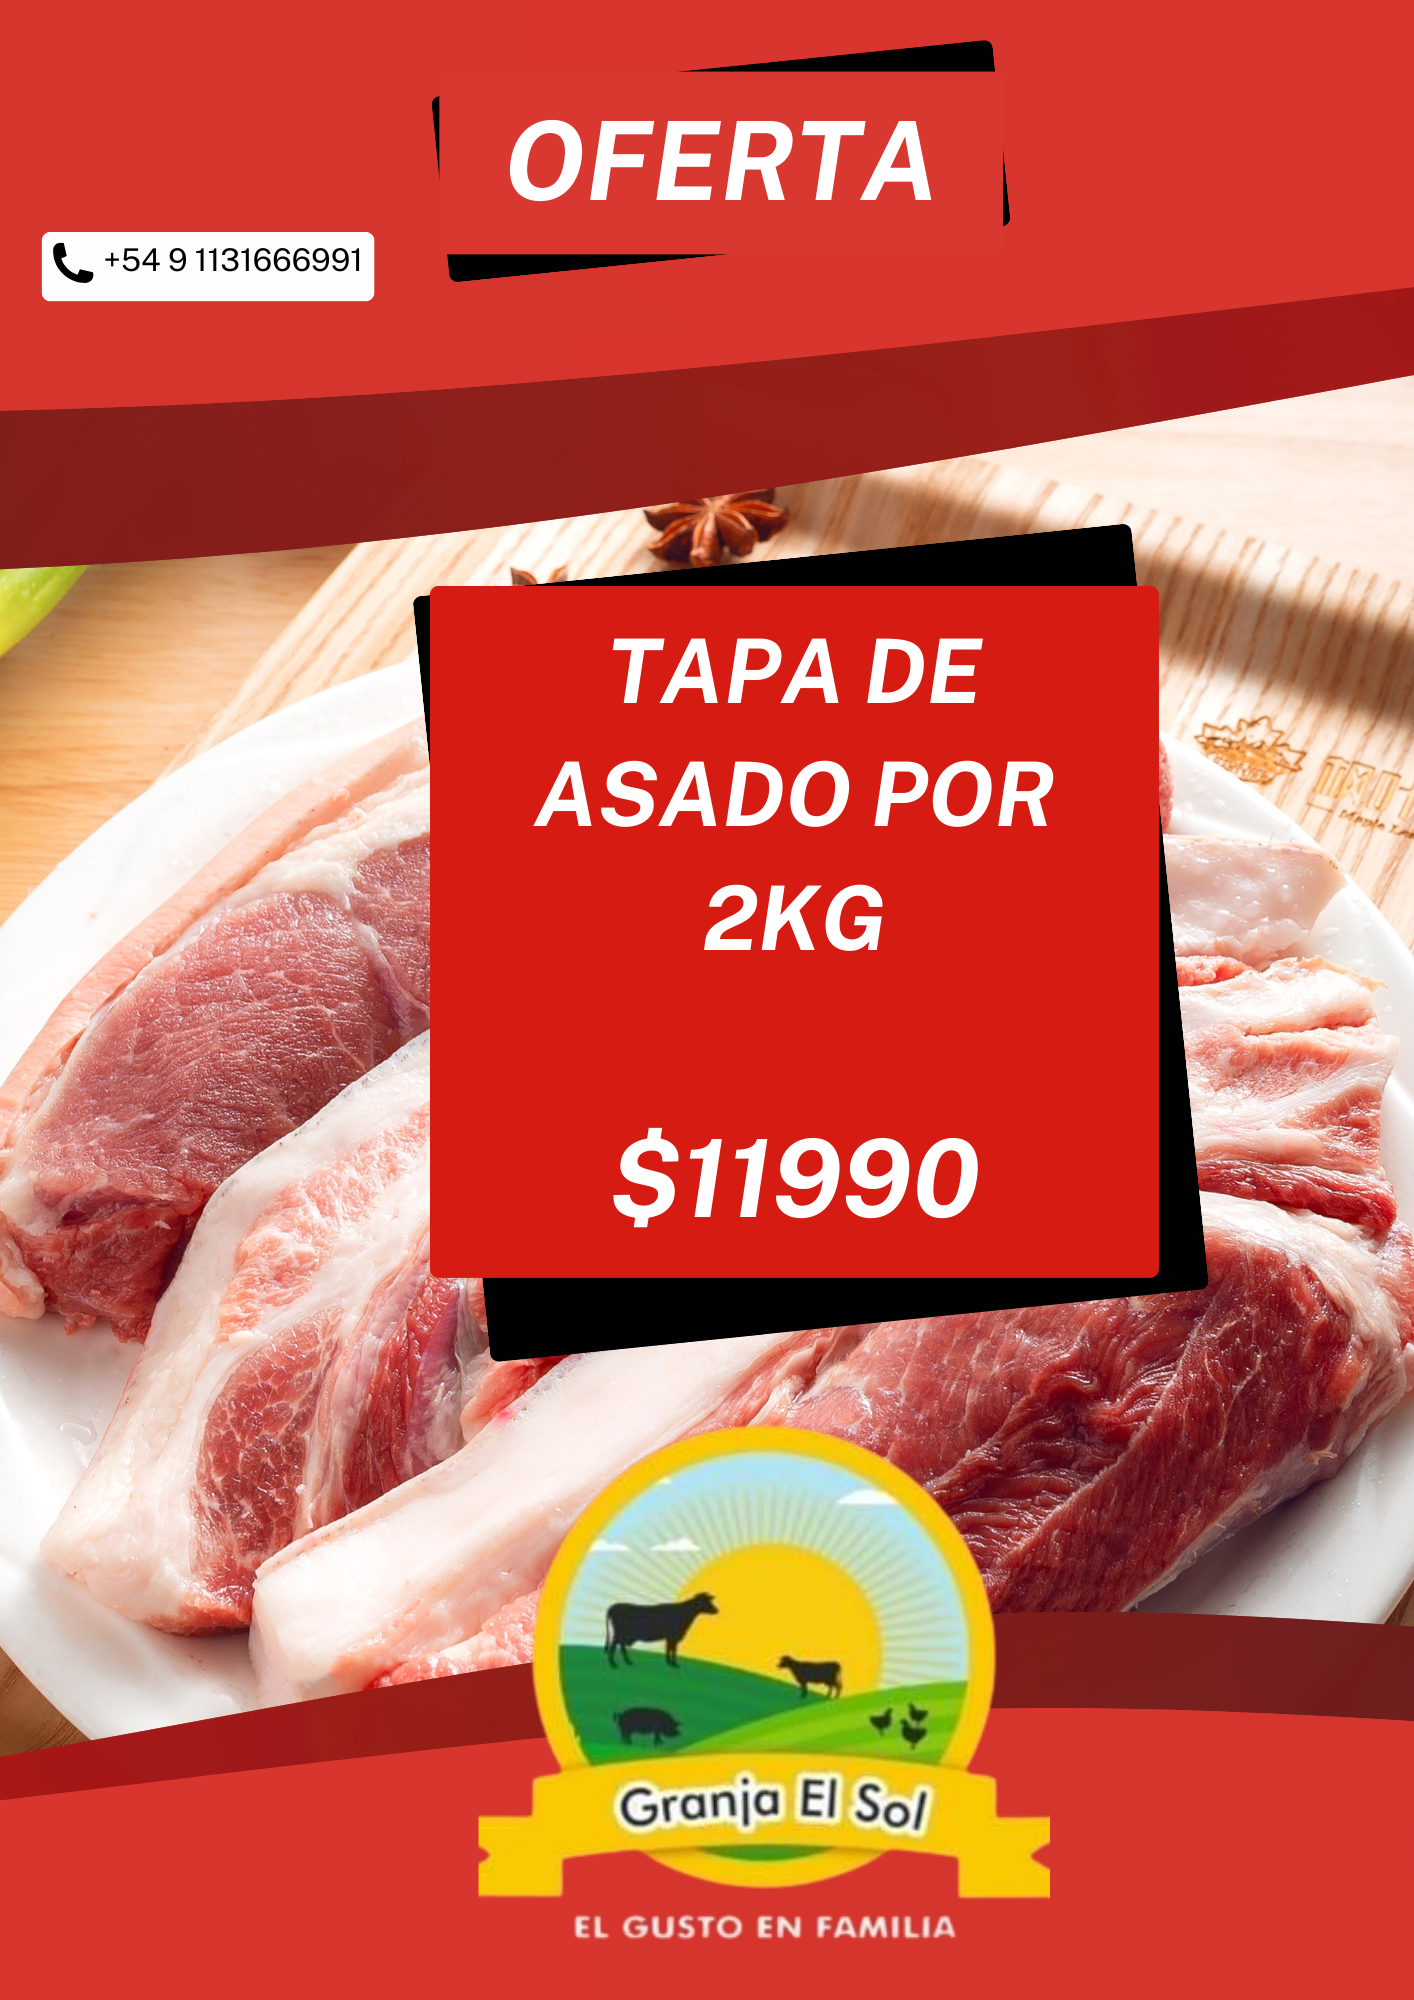
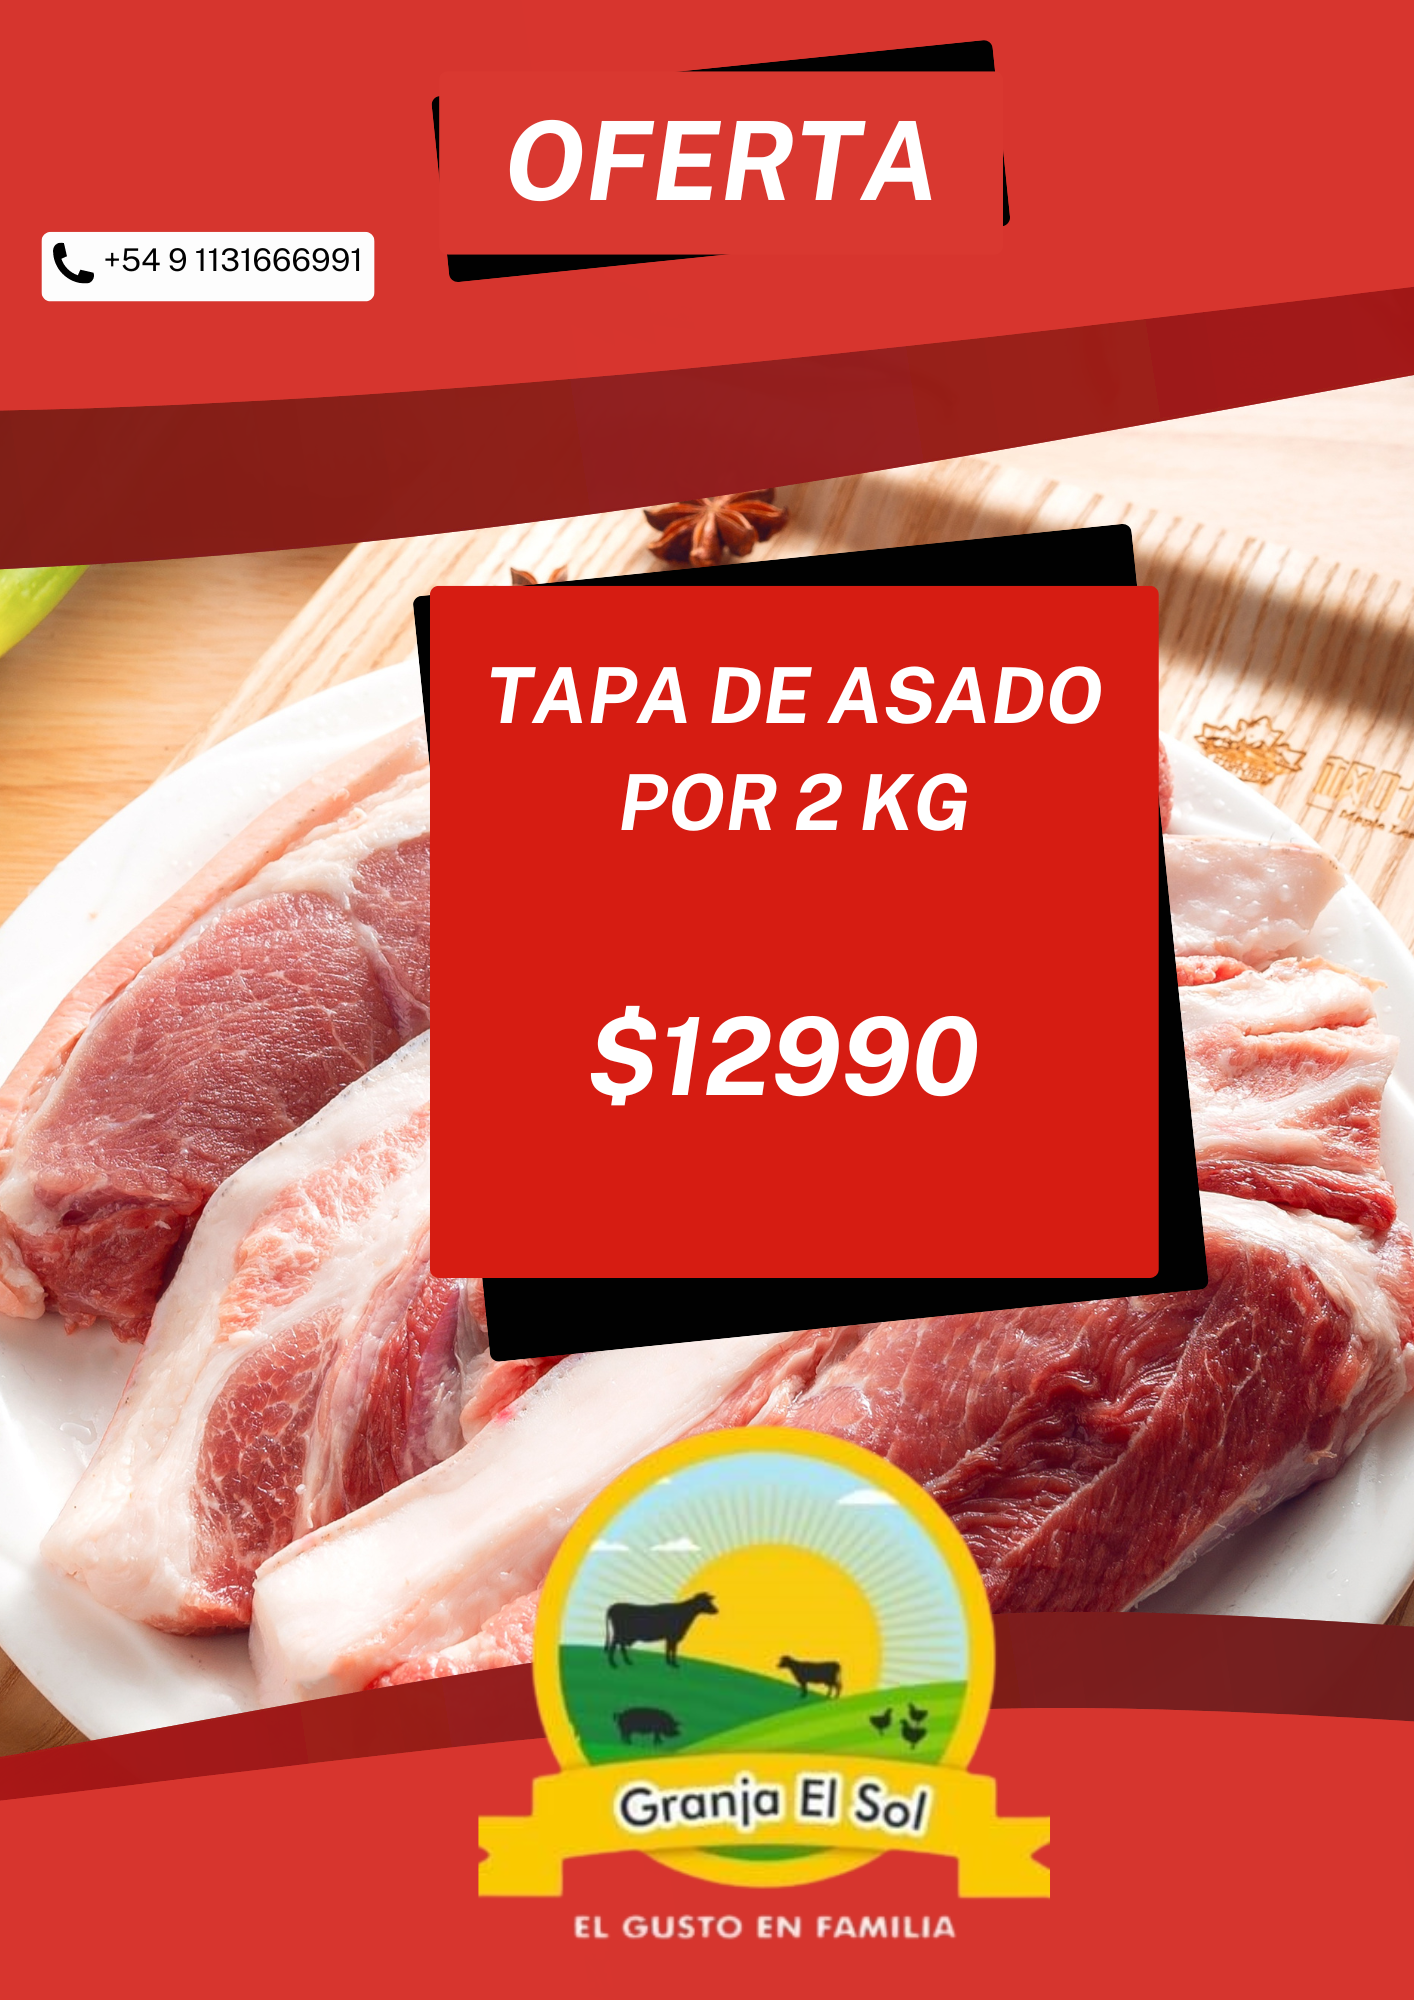
modified oferts and products

Changed region(s): [[0.3423, 0.31, 0.7779, 0.62]]

diff --git a/src/Components/Productos.jsx b/src/Components/Productos.jsx
@@ -52,182 +52,182 @@ const carne = [
     id: 1,
     image: `${asado}`,
     name: "Asado",
-    description: "$7990",
+    description: "$7590", //
   },
   {
     id: 2,
     image: `${americano}`,
     name: "Americano",
-    description: "$8190",
+    description: "$8190", //*
   },
   {
     id: 3,
     image: `${matambre}`,
     name: "Matambre",
-    description: "$7390",
+    description: "$7390", //
   },
   {
     id: 4,
     image: `${entraña}`,
     name: "Entraña",
-    description: "$9890",
+    description: "$9890",//*
   },
   {
     id: 1,
     image: `${vacio}`,
     name: "Vacio",
-    description: "$8990",
+    description: "$8990", //
   },
   {
     id: 2,
     image: `${lomo}`,
     name: "Lomo",
-    description: "$11590",
+    description: "$11590",//*
   },
   {
     id: 3,
     image: `${bifeangosto}`,
     name: "Bife angosto",
-    description: "$7390",
+    description: "$7390",//*
   },
   {
     id: 4,
     image: `${bifeancho}`,
     name: "Bife ancho",
-    description: "$3089",
+    description: "$3089",//*
   },
   {
     id: 5,
     image: `${palomita}`,
     name: "Palomita",
-    description: "$7350",
+    description: "$7350",//*
   },
   {
     id: 6,
     image: `${roastbeff}`,
     name: "Roastbeff",
-    description: "$7250",
+    description: "$7390", //
   },
   {
     id: 7,
     image: `${tapadeasado}`,
     name: "Tapa de asado",
-    description: "$7990",
+    description: "$7590", //
   },
   {
     id: 8,
     image: `${tapadenalga}`,
     name: "Tapa de nalga",
-    description: "$7790",
+    description: "$7790",//*
   },
   {
     id: 9,
     image: `${osobuco}`,
     name: "Osobuco",
-    description: "$4400",
+    description: "$4400",//*
   },
   {
     id: 10,
     image: `${paleta}`,
     name: "Paleta",
-    description: "7390",
+    description: "7490", //
   },
   {
     id: 11,
     image: `${peceto}`,
     name: "Peceto",
-    description: "$9690",
+    description: "$9690", //
   },
   {
     id: 12,
     image: `${ojodebife}`,
     name: "Ojo de bife",
-    description: "$10190",
+    description: "$10190",//*
   },
   {
     id: 13,
     image: `${picaña}`,
     name: "Picaña",
-    description: "$8990",
+    description: "$8990",//*
   },
 
   {
     id: 14,
     image: `${colitacuadril}`,
     name: "Colita de cuadril",
-    description: "$9690",
+    description: "$9690",//*
   },
   {
     id: 15,
     image: `${cuadrada}`,
     name: "Cuadrada",
-    description: "$8490",
+    description: "$8490", //
   },
   {
     id: 16,
     image: `${cuadril}`,
     name: "Cuadril",
-    description: "$8490",
+    description: "$8690", //
   },
   {
     id: 17,
     image: `${faldaparrillera}`,
     name: "Falda parrillera",
-    description: "$5990",
+    description: "$5990", //
   },
   {
     id: 18,
     image: `${nalga}`,
     name: "Nalga",
-    description: "$8990",
+    description: "$8990", //
   },
   {
     id: 19,
     image: `${boladelomo}`,
     name: "Bola de lomo",
-    description: "$8490",
+    description: "$8490",//
   },
   {
     id: 20,
     image: `${bifedechorizo}`,
     name: "Bife de chorizo",
-    description: "$9890",
+    description: "$9890",//*
   },
   {
     id: 21,
     image: `${espinazo}`,
     name: "Espinazo",
-    description: "$2990",
+    description: "$2990",//*
   },
   {
     id: 22,
     image: `${tortuguita}`,
     name: "Tortuguita",
-    description: "$7350",
+    description: "$7350",//*
   },
   {
     id: 23,
     image: `${faldapuchero}`,
     name: "Falda puchero",
-    description: "$3890",
+    description: "$3890",//*
   },
   {
     id: 24,
     image: `${hamburguesas}`,
     name: "hamburguesas",
-    description: "$6400",
+    description: "$6400",//*
   },
   {
     id: 25,
     image: `${miladecarne}`,
     name: "Milanesa de carne",
-    description: "$8490",
+    description: "$8490",//*
   },
   {
     id: 26,
     image: `${picada}`,
     name: "Picada",
-    description: "$6190",
+    description: "$6190", //
   }
 ];
 
@@ -236,25 +236,25 @@ const cerdo = [
     id: 1,
     image: `${bondiola}`,
     name: "Bondiola",
-    description: "$8490",
+    description: "$7690",
   },
   {
     id: 2,
     image: `${carre}`,
     name: "Carre",
-    description: "$5500",
+    description: "$6990",
   },
   {
     id: 3,
     image: `${churrasquito}`,
     name: "Churrasquito",
-    description: "$6990",
+    description: "$6990", //
   },
   {
     id: 4,
     image: `${lechon}`,
     name: "Lechon",
-    description: "$4000",
+    description: "$4000",//
   },
   {
     id: 1,
@@ -266,7 +266,7 @@ const cerdo = [
     id: 2,
     image: `${pechito}`,
     name: "Pechito",
-    description: "$5750",
+    description: "$5590",
   },
 ];
 
@@ -275,37 +275,37 @@ const pollos = [
     id: 1,
     image: `${Alitas}`,
     name: "Alitas",
-    description: "$1000",
+    description: "$2000",
   },
   {
     id: 2,
     image: `${mila}`,
     name: "Milanesa de pollo",
-    description: "$5190",
+    description: "$5190",//
   },
   {
     id: 3,
     image: `${patamuslo}`,
     name: "Pata y muslo",
-    description: "$2290",
+    description: "$3360",
   },
   {
     id: 4,
     image: `${pechuga}`,
     name: "Pechuga",
-    description: "$4290",
+    description: "$4990",
   },
   {
     id: 1,
     image: `${pollo}`,
     name: "Pollo entero",
-    description: "$2050",
+    description: "$2850",
   },
   {
     id: 2,
     image: `${suprema}`,
     name: "Suprema",
-    description: "$5449",
+    description: "$6490",
   },
 ];
 

diff --git a/src/Components/Ofertas.jsx b/src/Components/Ofertas.jsx
@@ -1,21 +1,22 @@
 import { Swiper, SwiperSlide } from 'swiper/react';
 import 'swiper/css';
 
-import ofertaespinazo from "../img/ofertas/ofertaespinazo.png";
-import ofertabifeancho from "../img/ofertas/ofertabifeancho.png";
-import ofertabifeangosto from "../img/ofertas/ofertabifeangosto.png";
-import ofertapatycasero from "../img/ofertas/ofertapatycasero.png";
-import ofertapicadacomun from "../img/ofertas/ofertapicadacomun.png";
-import ofertamatambre from "../img/ofertas/ofertamatambre.png";
-import ofertapicadaespecial from "../img/ofertas/ofertapicadaespecial.png";
-import ofertatapaasado from "../img/ofertas/ofertatapaasado.png";
-import ofertaboladelomo from "../img/ofertas/ofertaboladelomo.png";
-import ofertaosobuco from "../img/ofertas/ofertaosobuco.png";
-import ofertapaleta from "../img/ofertas/ofertapaleta.png";
-import ofertatapadenalga from "../img/ofertas/ofertatapadenalga.png";
+import ofertaespinazo from "../img/ofertas/ofertaespinazo.png";//
+import ofertabifeancho from "../img/ofertas/ofertabifeancho.png";//
+import ofertabifeangosto from "../img/ofertas/ofertabifeangosto.png";//
+import ofertapatycasero from "../img/ofertas/ofertapatycasero.png";//
+import ofertapicadacomun from "../img/ofertas/ofertapicadacomun.png";//
+import ofertamatambre from "../img/ofertas/ofertamatambre.png";//
+import ofertatapaasado from "../img/ofertas/ofertatapaasado.png";//
+import ofertapaleta from "../img/ofertas/ofertapaleta.png";//
 import ofertadescuento from "../img/ofertas/ofertadescuento.png";
-import ofertaroastebeef from "../img/ofertas/ofertaroastbeef.png";
+import ofertabondiola from "../img/ofertas/ofertabondiola.png";//
+import ofertapechitodecerdo from "../img/ofertas/ofertapechitodecerdo.png";//
 
+// import ofertaosobuco from "../img/ofertas/ofertaosobuco.png";
+// import ofertaboladelomo from "../img/ofertas/ofertaboladelomo.png";
+// import ofertapicadaespecial from "../img/ofertas/ofertapicadaespecial.png";
+// import ofertaroastebeef from "../img/ofertas/ofertaroastbeef.png";
 
 
 
@@ -49,18 +50,16 @@ function CarrouselSwip() {
                         <SwiperSlide><img className='w-100' src={ofertadescuento} alt="" /></SwiperSlide>
                         <SwiperSlide><img className='w-100' src={ofertaespinazo} alt="" /></SwiperSlide>
                         <SwiperSlide><img className='w-100' src={ofertabifeangosto} alt="" /></SwiperSlide>
-                        <SwiperSlide><img className='w-100' src={ofertabifeancho} alt="" /></SwiperSlide>
+                        <SwiperSlide><img className='w-100' src={ofertabifeancho} alt="" /></SwiperSlide> 
+                        <SwiperSlide><img className='w-100' src={ofertabondiola} alt="" /></SwiperSlide> 
+                        <SwiperSlide><img className='w-100' src={ofertaespinazo} alt="" /></SwiperSlide> 
                         <SwiperSlide><img className='w-100' src={ofertapatycasero} alt="" /></SwiperSlide>
                         <SwiperSlide><img className='w-100' src={ofertatapaasado} alt="" /></SwiperSlide>
-                        <SwiperSlide><img className='w-100' src={ofertaboladelomo} alt="" /></SwiperSlide>
+                        <SwiperSlide><img className='w-100' src={ofertapechitodecerdo} alt="" /></SwiperSlide>
                         <SwiperSlide><img className='w-100' src={ofertamatambre} alt="" /></SwiperSlide>
                         <SwiperSlide><img className='w-100' src={ofertadescuento} alt="" /></SwiperSlide>
                         <SwiperSlide><img className='w-100' src={ofertapicadacomun} alt="" /></SwiperSlide>
-                        <SwiperSlide><img className='w-100' src={ofertapicadaespecial} alt="" /></SwiperSlide>
-                        <SwiperSlide><img className='w-100' src={ofertaosobuco} alt="" /></SwiperSlide>
                         <SwiperSlide><img className='w-100' src={ofertapaleta} alt="" /></SwiperSlide>
-                        <SwiperSlide><img className='w-100' src={ofertaroastebeef} alt="" /></SwiperSlide>
-                        <SwiperSlide><img className='w-100' src={ofertatapadenalga} alt="" /></SwiperSlide>
                         <SwiperSlide><img className='w-100' src={ofertatapaasado} alt="" /></SwiperSlide>
                         
                         {/* ... Agrega más diapositivas según sea necesario */}
